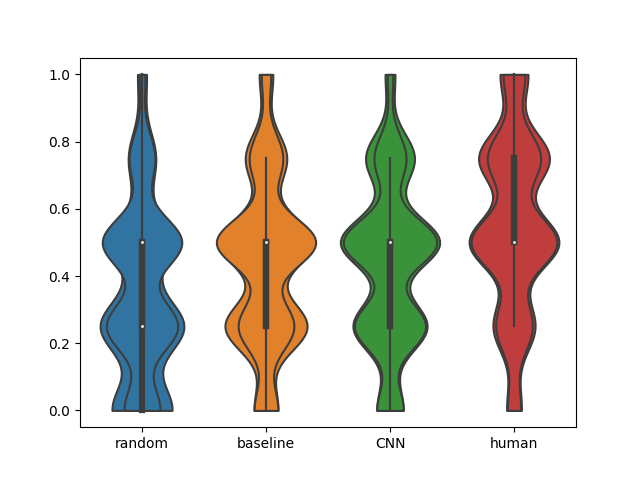
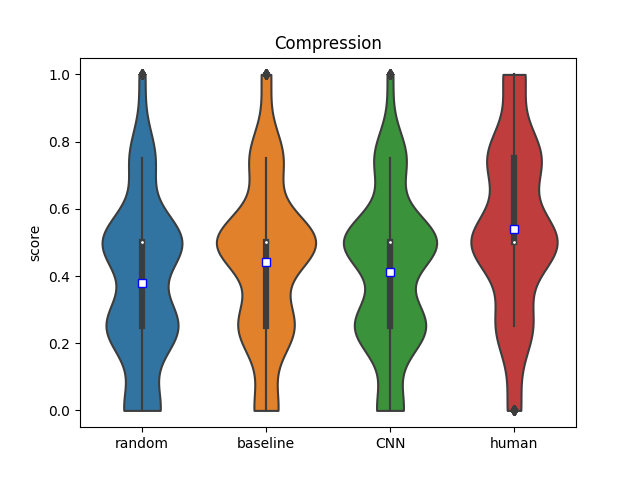
overall plot

diff --git a/survey/analysis/src/analysis.py b/survey/analysis/src/analysis.py
@@ -4,6 +4,7 @@ import pandas as pd
 import numpy as np
 import seaborn as sns
 import matplotlib.pyplot as plt
+from numpy import mean
 
 
 
@@ -64,21 +65,39 @@ def vote_to_score(effect):
 
 plot_path = "../plot/"
 
-def plot(effect):
+def plot(effect, counter):
     score_df = vote_to_score(effect)
-    plot = sns.violinplot(data=score_df, cut=0)
+    plot = sns.violinplot(ax=axes[counter], data=score_df, cut=0, inner = 'box', bw=0.35)
+    plot = sns.boxplot(ax=axes[counter], data=score_df, showmeans=True,
+            meanprops={"marker":"s","markerfacecolor":"white", "markeredgecolor":"blue", "markersize": "10"}, width=0.01)
+    #sns.pointplot(data=score_df, estimator=mean, join = False, color="white", errorbar=None)
+    if counter == 0:
+        ax=axes[counter].set(ylabel='score')
+    ax=axes[counter].set(title=effect)
+    #plot = sns.boxplot(data=score_df)
+    
     #fig = plot.get_figure()
     #fig.savefig(plot_path + effect + ".png")
     #plot.figure.savefig(plot_path + effect + ".png")
-    plt.savefig(plot_path + effect + ".png")
+
+
+    #plt.savefig(plot_path + effect + ".png")
+    #plt.clf()
+
 
 
 
 effect_list = ["Level Balance", "Compression", "EQ", "Reverb", "Overall"]
+fig, axes = plt.subplots(1, 5, figsize=(20, 4))
+fig.subplots_adjust(hspace=0.125, wspace=1)
 
+counter = 0
 for effect in effect_list:
-    plot(effect)
+    plot(effect, counter)
+    counter += 1
 
+fig.tight_layout()
+fig.savefig(plot_path + "rating.png")
 
 
 

diff --git a/src/scripts/eval/plot_error.py b/src/scripts/eval/plot_error.py
@@ -138,8 +138,6 @@ axes[6].set_title("Room Size")
 
 
 
-
-
 #######################
 #######################
 #######################
